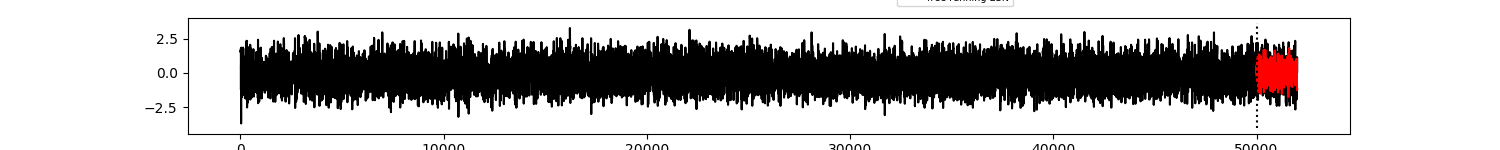
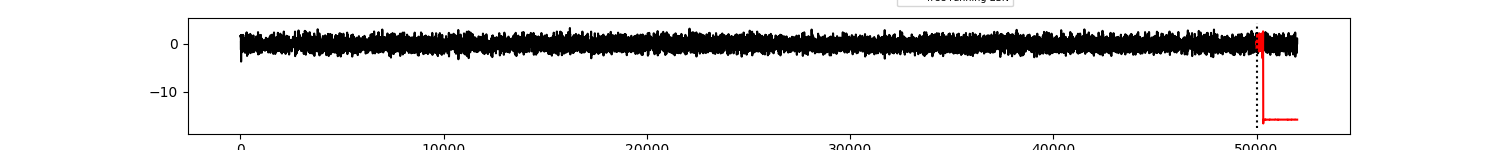
results

diff --git a/notebooks/lorenz/esn_multiple_res_nikola.py b/notebooks/lorenz/esn_multiple_res_nikola.py
@@ -26,11 +26,11 @@ dataT = np.transpose(data)
 esn = pyESN_BE.ESN(
   n_inputs=1,
   n_outputs=1,
-  n_reservoir=5000,
+  n_reservoir=8000,
   # n_reservoir=50,  # lover number for debugging on laptop
   spectral_radius=0.9,
   sparsity=0.002,
-  reg=0.001,
+  reg=0.005,
   random_state=42)
 
 trainN = 50000
